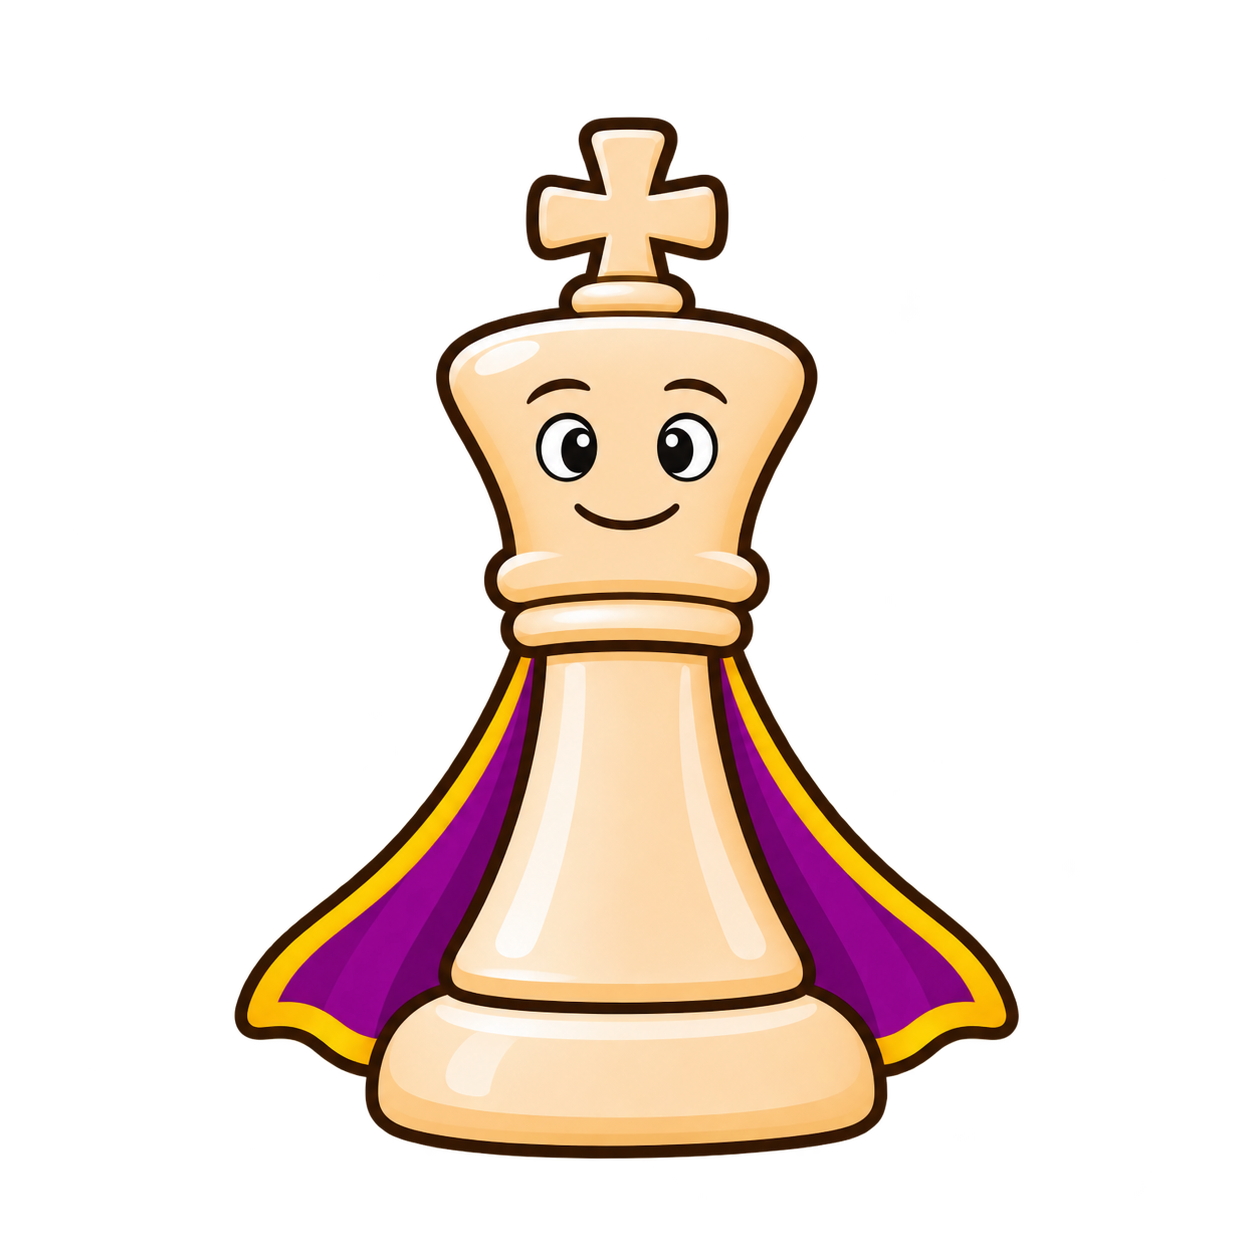
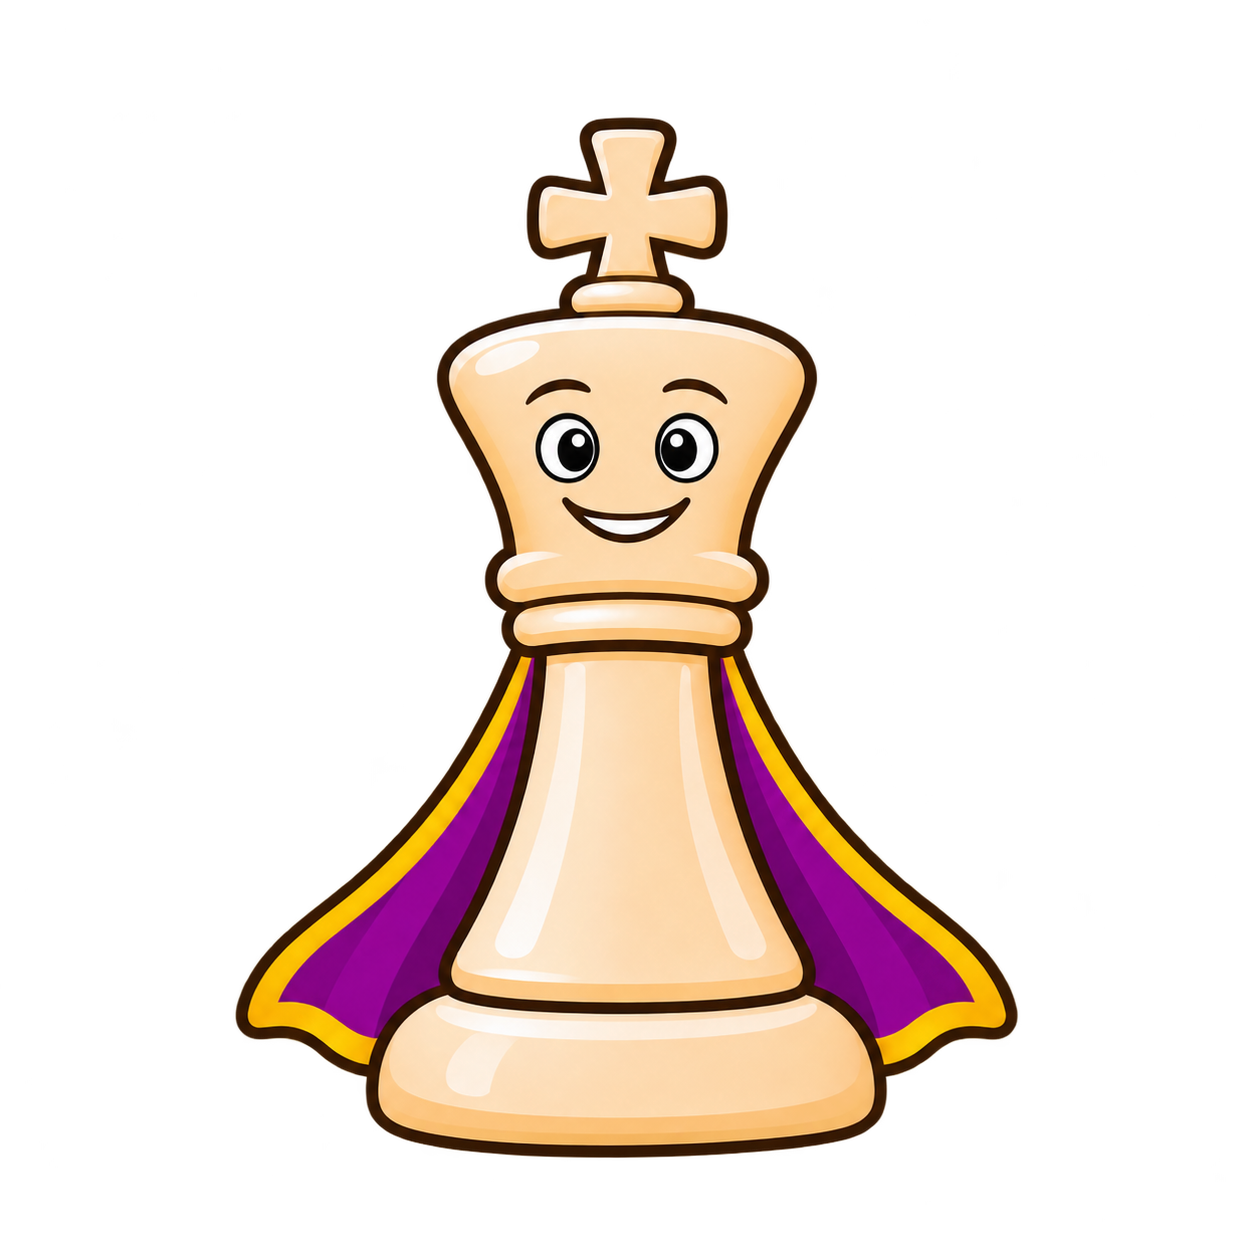
Align finished game actions and refine result king expressions

diff --git a/tests/game-result.spec.ts b/tests/game-result.spec.ts
@@ -17,6 +17,13 @@ test('computer game result can be dismissed outside the message and opened for r
   const bounds = (await page.locator('.play-match .board').boundingBox())!;
   await page.mouse.click(bounds.x+8,bounds.y+8);
   await expect(message).toHaveCount(0);
+  const sidebar = page.locator('.match-sidebar');
+  const moves = await sidebar.locator('.card').filter({ has: page.getByRole('heading', { name: 'Moves', exact: true }) }).boundingBox();
+  const review = await sidebar.getByRole('button', { name: 'Review game', exact: true }).boundingBox();
+  const newGame = await sidebar.getByRole('button', { name: 'New game', exact: true }).boundingBox();
+  expect(review!.x).toBeCloseTo(moves!.x, 0);
+  expect(review!.y).toBeCloseTo(newGame!.y, 0);
+  expect(newGame!.x + newGame!.width).toBeCloseTo(moves!.x + moves!.width, 0);
   await page.reload();
   await message.getByRole('button', {name:'Game review',exact:true}).click();
   await expect(page).toHaveURL(/#library\/finished-local/);

diff --git a/src/redesign.css b/src/redesign.css
@@ -4041,8 +4041,7 @@ select.theme-select {
 }
 .play-match .match-sidebar { gap: 12px; }
 .match-sidebar > .card { padding: 14px; }
-.match-sidebar .game-actions,
-.match-sidebar > .button-row {
+.match-sidebar .game-actions {
   display: flex;
   flex-wrap: wrap;
   gap: 5px;
@@ -4055,6 +4054,9 @@ select.theme-select {
   font-size: .7rem;
 }
 .match-sidebar .game-actions > .btn { flex: 1; }
+.match-sidebar > .finished-game-actions { display:grid; grid-template-columns:repeat(2,minmax(0,1fr)); gap:5px; }
+.finished-game-actions .btn { min-width:0; white-space:normal; }
+.finished-game-actions .btn svg { flex:none; }
 .match-sidebar h2 { font-size: .9rem; }
 .match-notation { max-height: calc(100dvh - 180px); overflow: auto; margin-top: 12px; }
 .match-notation .notation-row {

diff --git a/src/pages/Play.tsx b/src/pages/Play.tsx
@@ -1061,7 +1061,7 @@ export default function Play({variantsOnly = false, onPlayingChange, speedrunElo
                 </Button>
               </div>
             ) : (
-              <div className="button-row">
+              <div className="finished-game-actions">
                 <Button onClick={() => navigate("library", game.id)}>
                   Review game
                   <ArrowRight size={15} />
